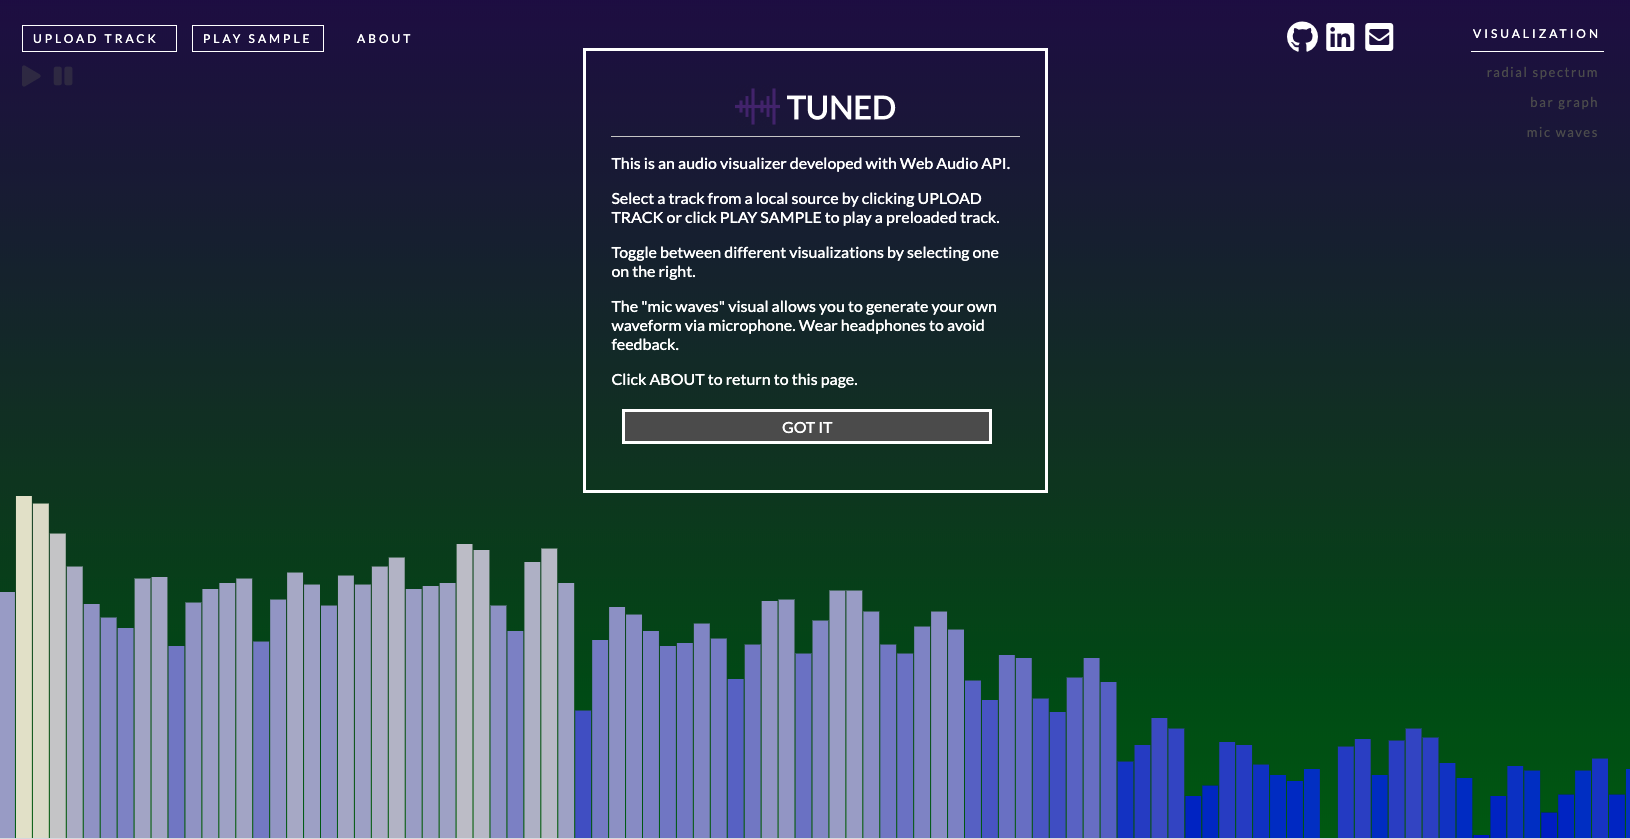
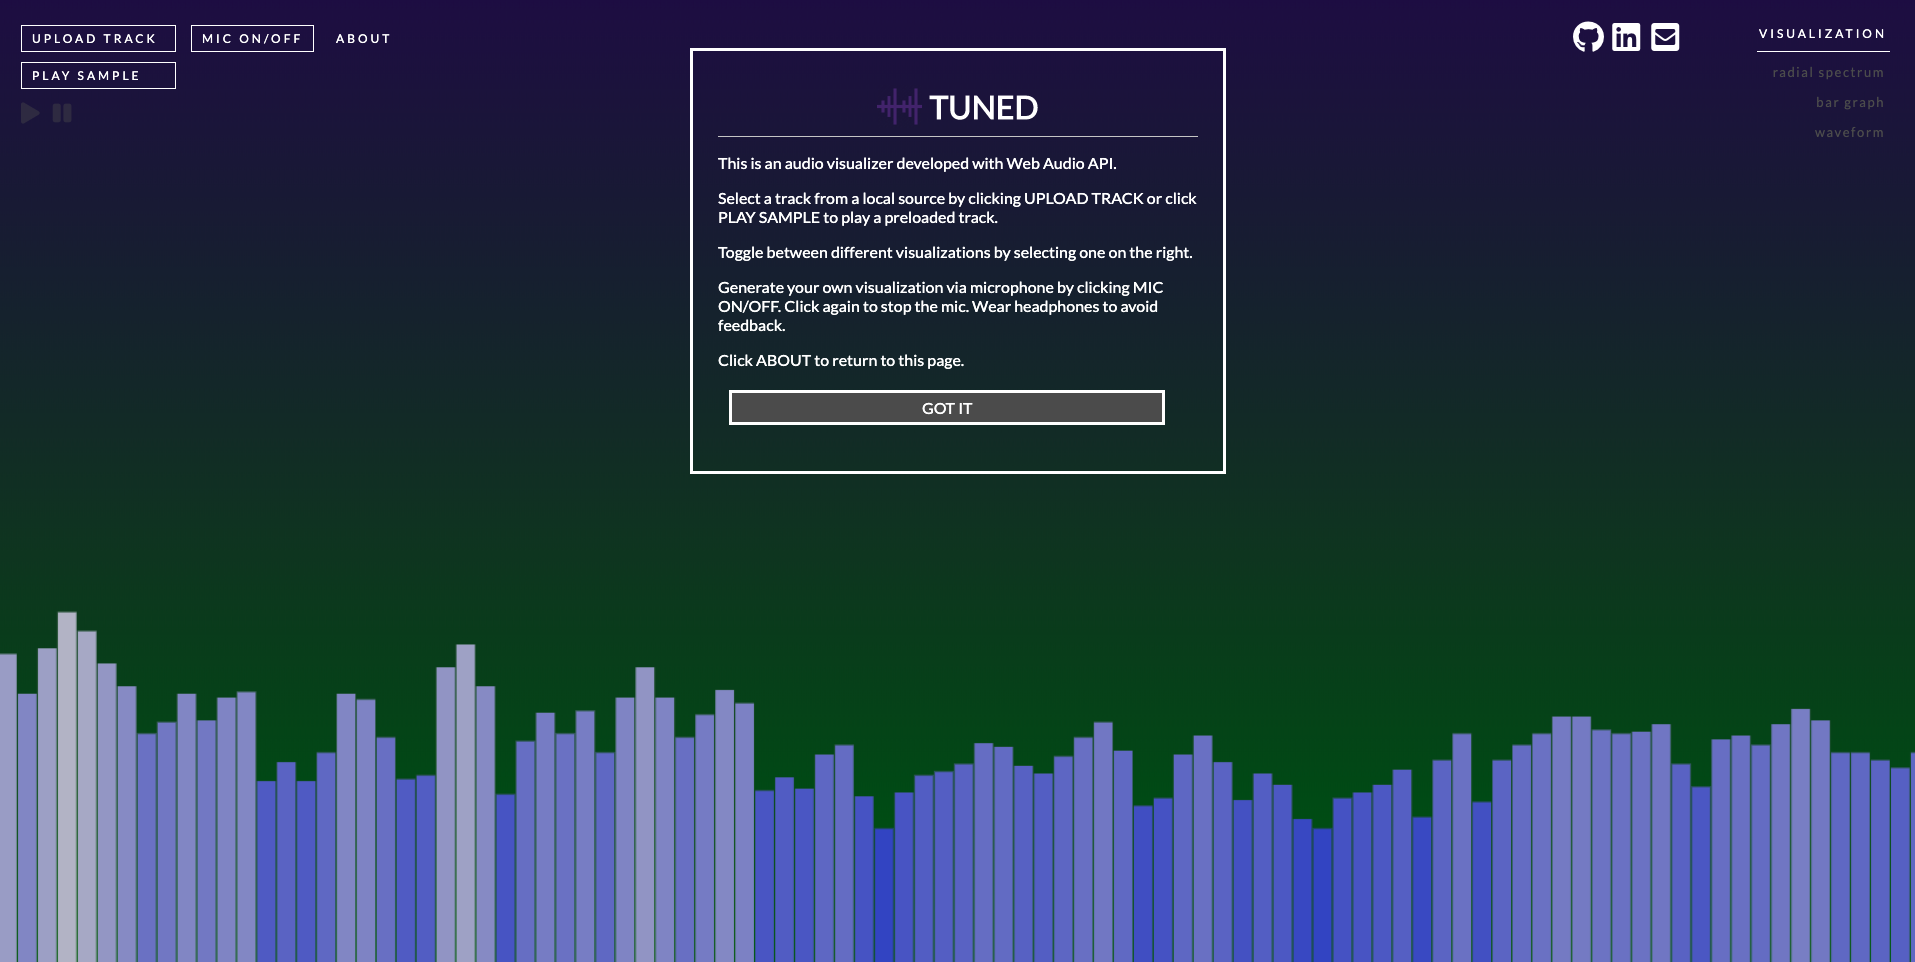
Update README

diff --git a/README.md b/README.md
@@ -45,15 +45,27 @@ Each visualization has its own set of canvas drawings. The radial spectrum visua
   ```
 <img src=images/radial_spec.png>
 
-## Adding the Microphone
+## Microphone
 
-Microphone support was included to enhance user experience. Connecting the microphone was a similar process to connecting a song, involving a few other methods that were specific to media devices.  
+Microphone support was included to enhance user experience. Connecting the microphone was similar to connecting a song, with the exception of other methods that were specific to media devices. Disabling the mic was more challenging. A button was created to act as switch to turn the mic on or off. Clicking the button triggers the toggleMic function, which either creates an audio stream or stops it, depending if one was already created. 
 
 ```javascript
-  micInput.addEventListener('click', function () {
-    navigator.getUserMedia = navigator.getUserMedia || navigator.webkitGetUserMedia;
-    navigator.getUserMedia({ audio: true }, setupStream, error)
-  });
+  async function toggleMic() {
+    pauseSound();
+
+    if (inputStream) {
+      tracks = inputStream.getAudioTracks();
+      tracks[0].stop();
+      inputStream = null;
+    } else {
+      navigator.getUserMedia = navigator.getUserMedia || navigator.webkitGetUserMedia;
+      navigator.mediaDevices.getUserMedia({ audio: true })
+        .then(stream => {
+          inputStream = stream;
+          setupStream(inputStream);
+        });
+    }
+  }
 ```
 
 ```javascript
